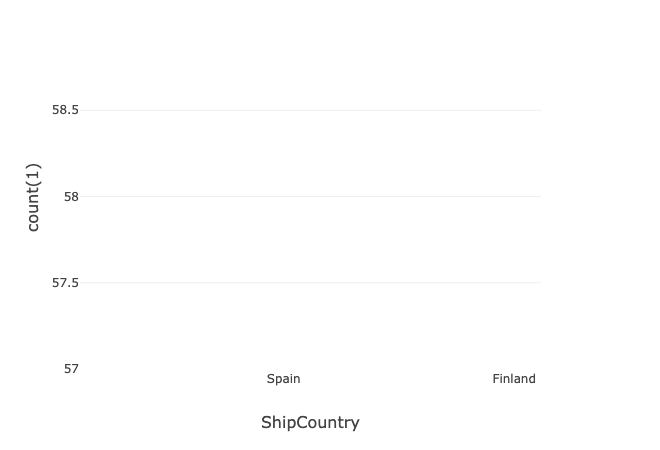
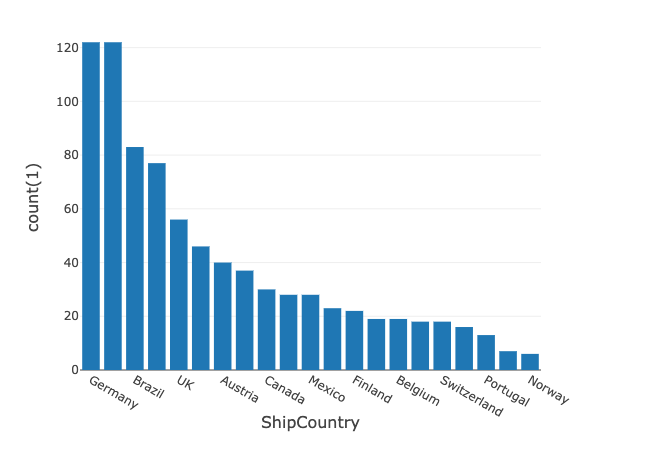
updated

diff --git a/README.md b/README.md
@@ -12,17 +12,21 @@
 
 	* How many orders have been shipped to each country?
 	Germany and USA have had the most orders shipped. 
-	<img src='https://github.com/kevinclee26/retail_analysis_on_databricks/blob/main/images/countries_shipped.png?raw=true' height='150px'>
+	<img src='https://github.com/kevinclee26/retail_analysis_on_databricks/blob/main/images/countries_shipped.png?raw=true' height='200px'>
 
 * For each product, list its product ID, product name, and the company name.
 
 	* Which 5 countries have the heaviest shipments, on average?
+	Australia, Ireland, and USA have the top 3 average shipment. 
+	<img src='https://github.com/kevinclee26/retail_analysis_on_databricks/blob/main/images/average_shipped_by_country.png?raw=true' height='200px'>
 
 	* Which 10 companies have placed the most orders? List the contact name of each company.
+	<img src='https://github.com/kevinclee26/retail_analysis_on_databricks/blob/main/images/top_customer_contacts.png?raw=true' height='200px'>
 
 * Sort the customers by total amount spent on orders in descending order.
 
 * Sort customers with a total spending greater than 20,000 in descending order.
+<img src='https://github.com/kevinclee26/retail_analysis_on_databricks/blob/main/images/total_spending_by_customer.png?raw=true' height='200px'>
 
 * Sort the employees by the number of orders they sold in descending order.
 
@@ -32,8 +36,7 @@
 
 * List the products with the highest level of discount in descending order.
 
-
-This project is developed with (databricks)[https://databricks.com/] and (Apache Spark)[https://spark.apache.org/]
+This project is developed with [databricks](https://databricks.com/) and [Apache Spark](https://spark.apache.org/)
 
 # Data Attribution
 Data Used in This Analysis is Provided by 2U. You can acquire the data using below links: 
